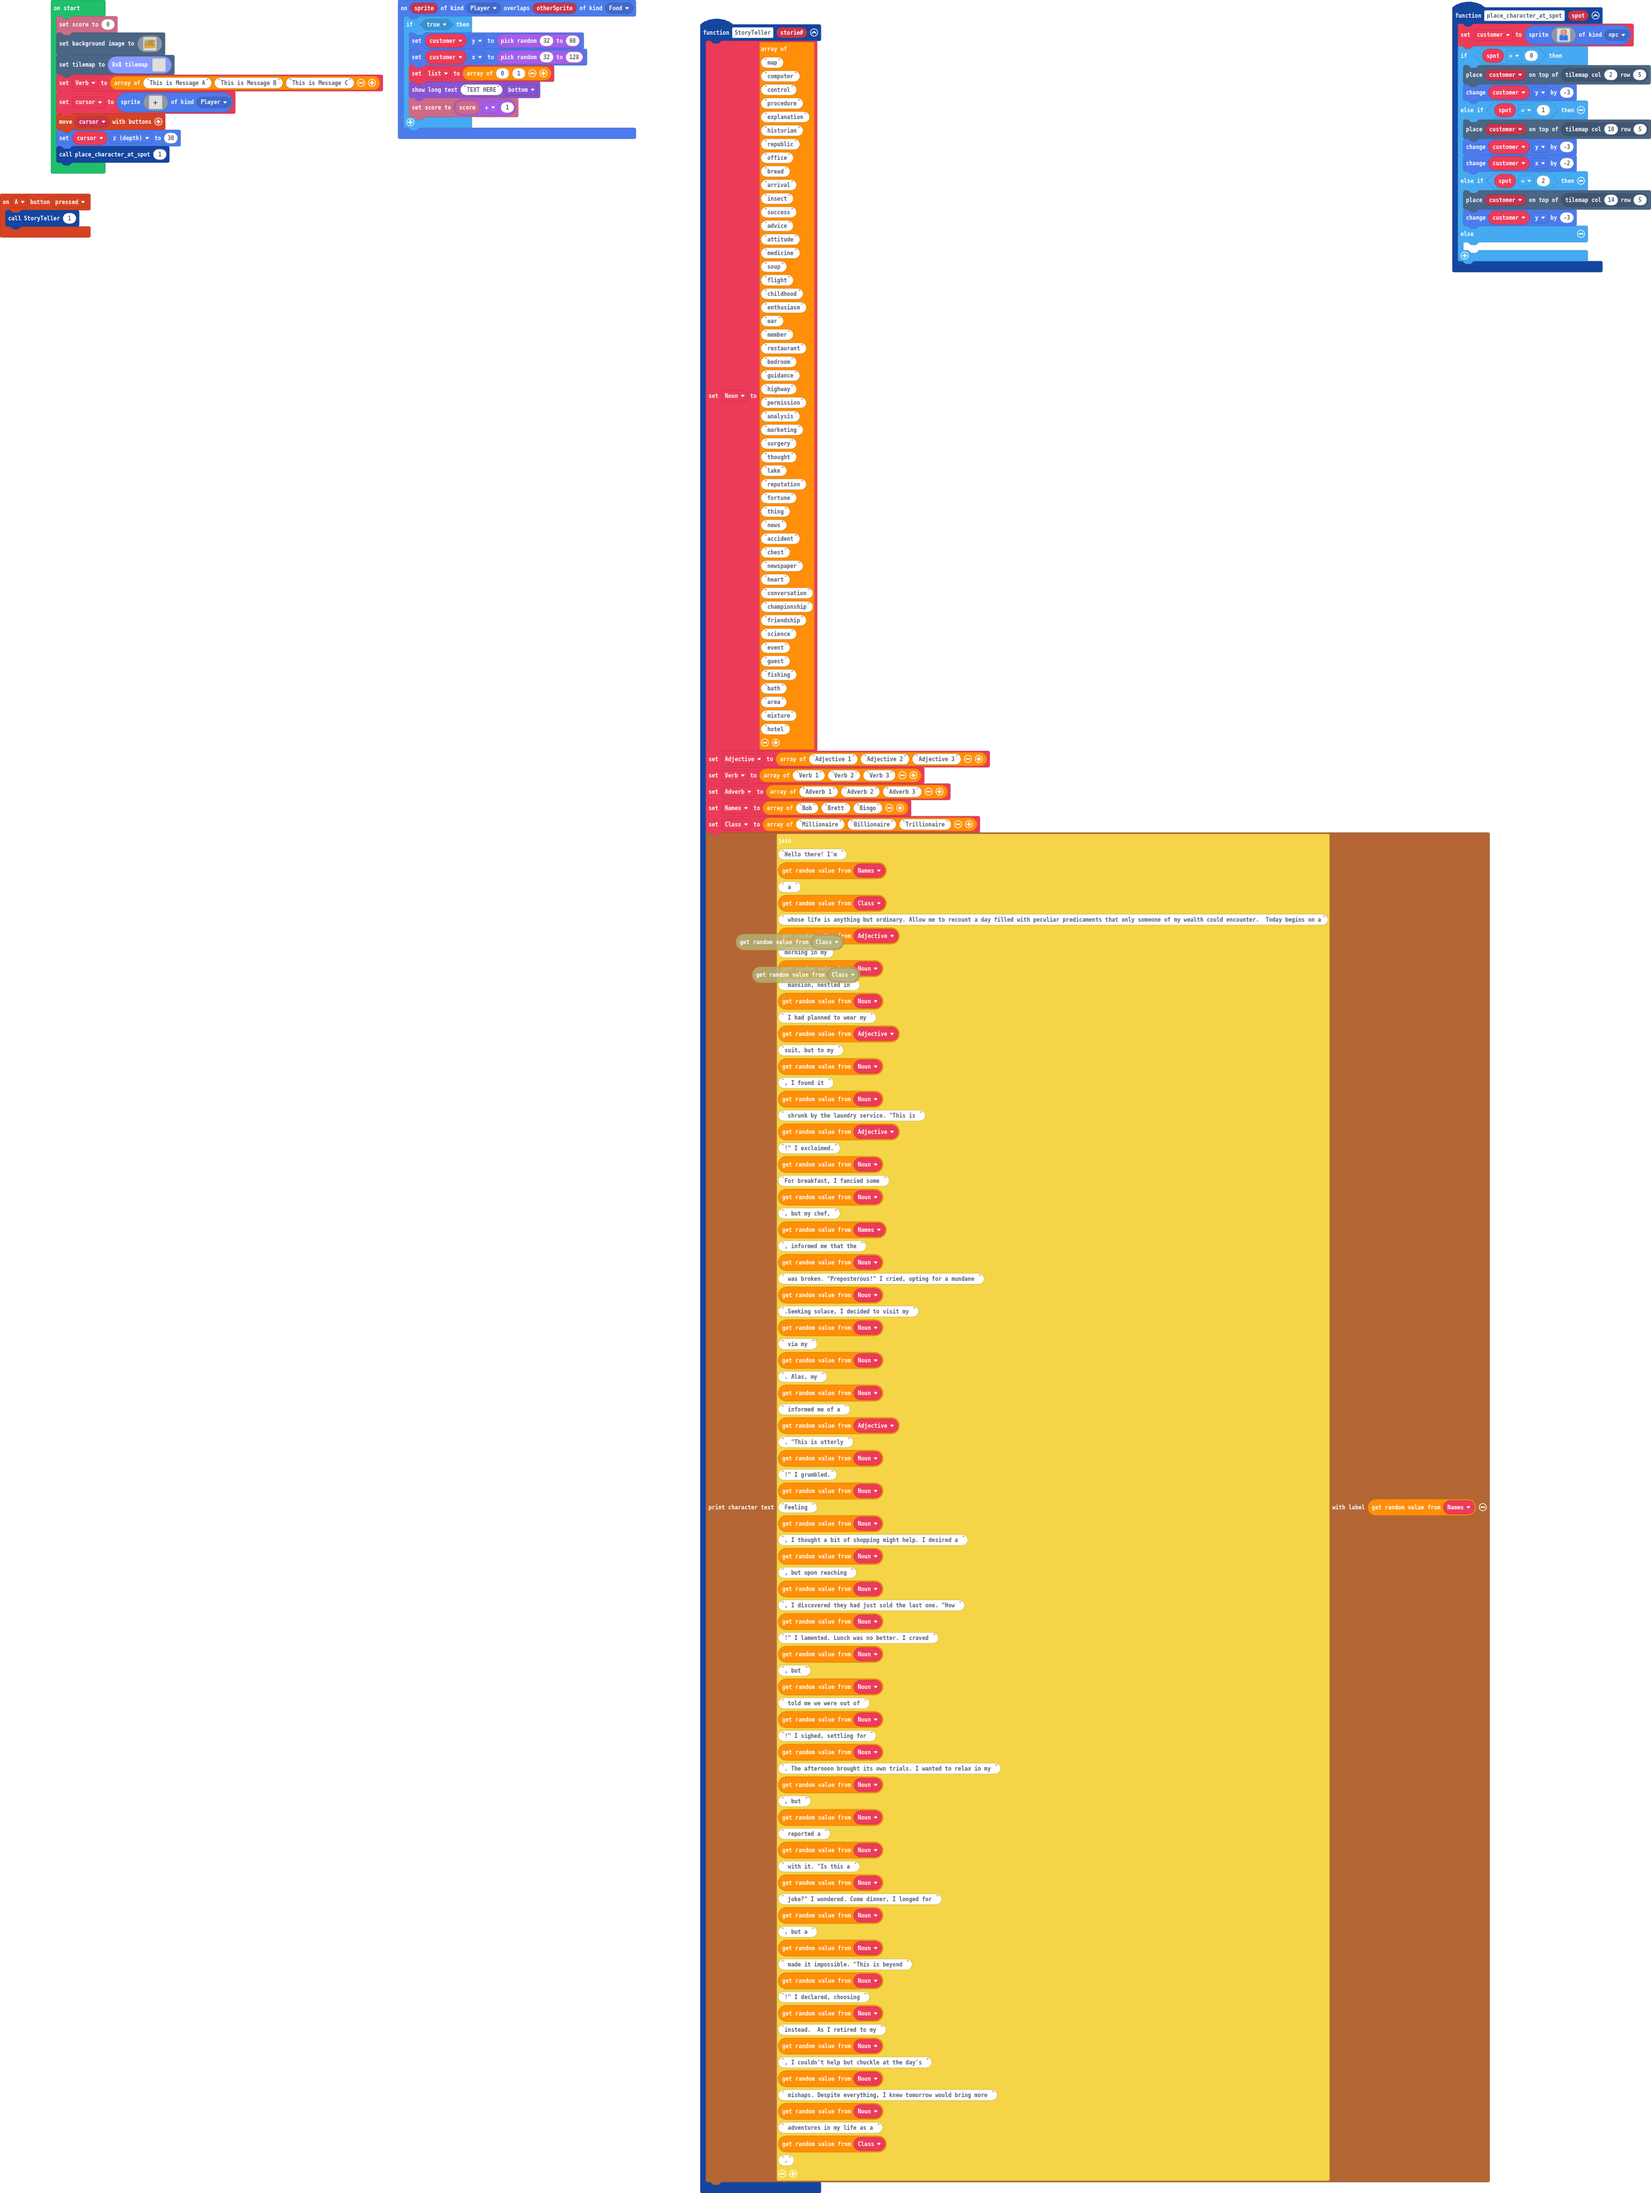
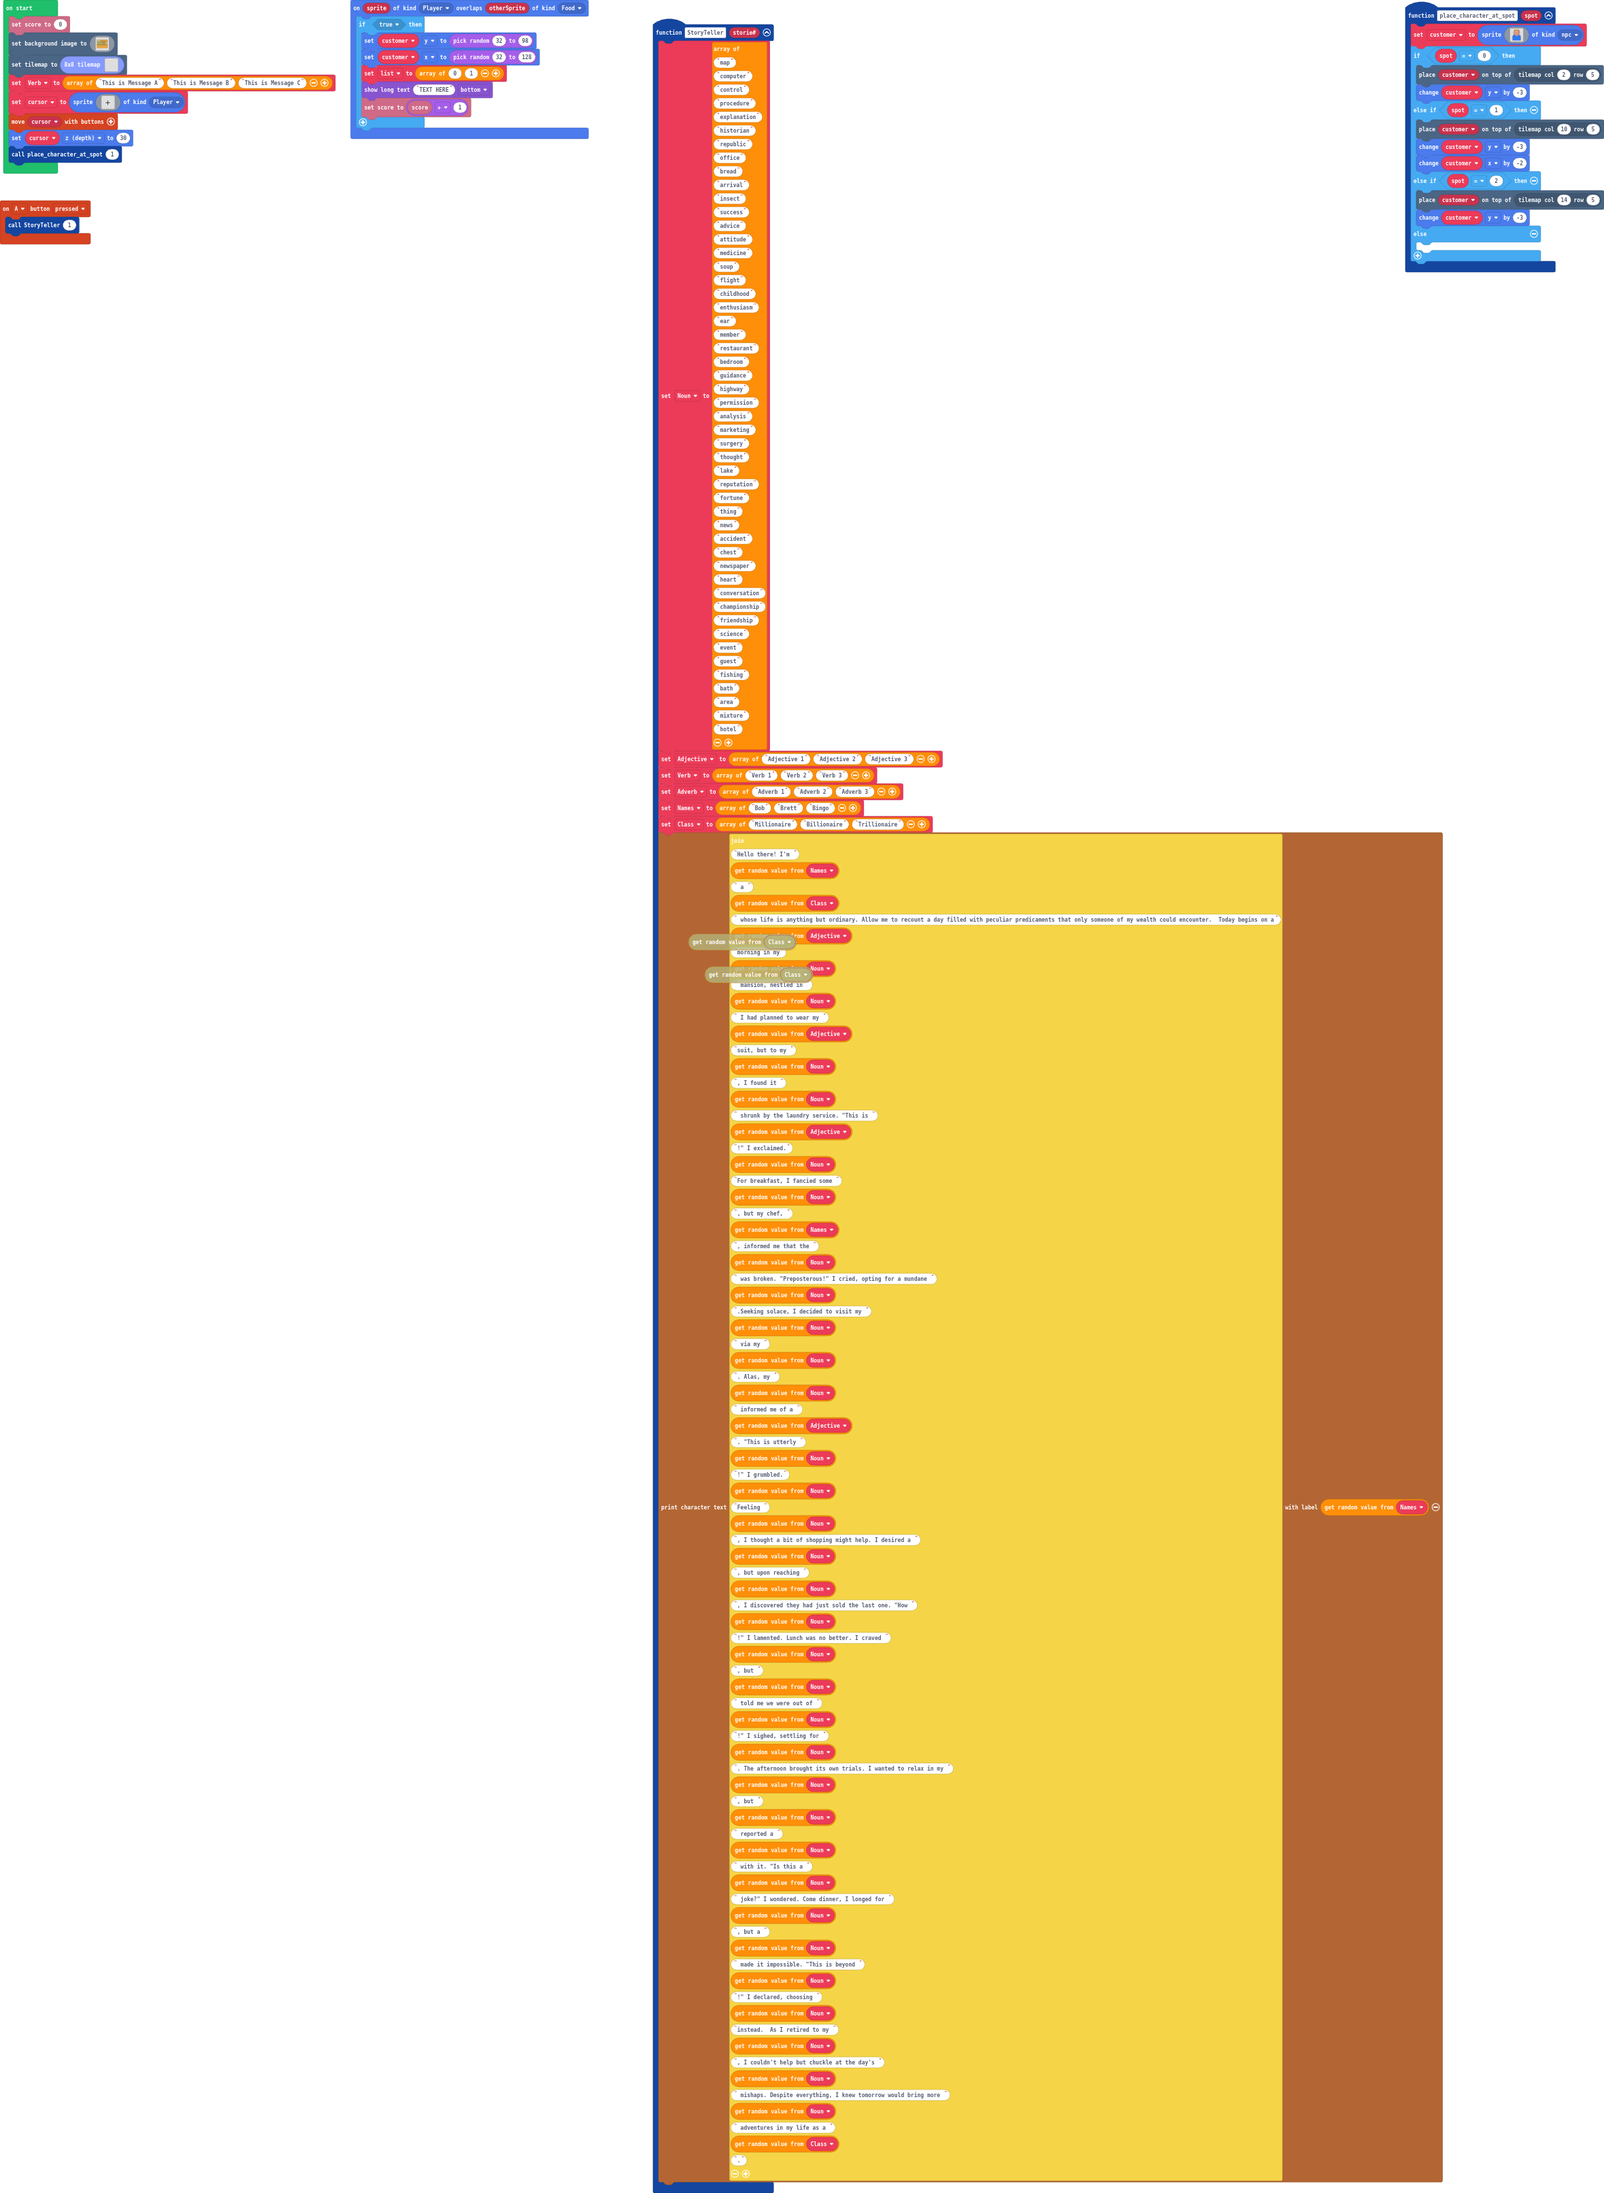
added adjectives list

diff --git a/main.ts b/main.ts
@@ -55,7 +55,7 @@ function StoryTeller (storie: number) {
     "mixture",
     "hotel"
     ]
-    Adjective = ["Adjective 1", "Adjective 2", "Adjective 3"]
+    Adjective = ["tightfisted", "wistful", "responsible", "educated", "magical", "beneficial", "unique", "painstaking", "round", "half", "hungry", "handy", "embarrassed", "available", "victorious", "nasty", "premium", "red", "sturdy", "young", "familiar", "good", "tender", "spurious", "witty", "traditional", "testy", "groovy", "rural", "roomy", "voracious", "abstracted", "ordinary", "impartial", "profuse", "miniature", "stingy", "quixotic", "cruel", "harmonious", "pink", "several", "garrulous", "joyous", "cultural", "chief", "momentous", "brash", "slimy", "Grieving"]
     Verb = ["Verb 1", "Verb 2", "Verb 3"]
     Adverb = ["Adverb 1", "Adverb 2", "Adverb 3"]
     Names = ["Bob", "Brett", "Bingo"]
